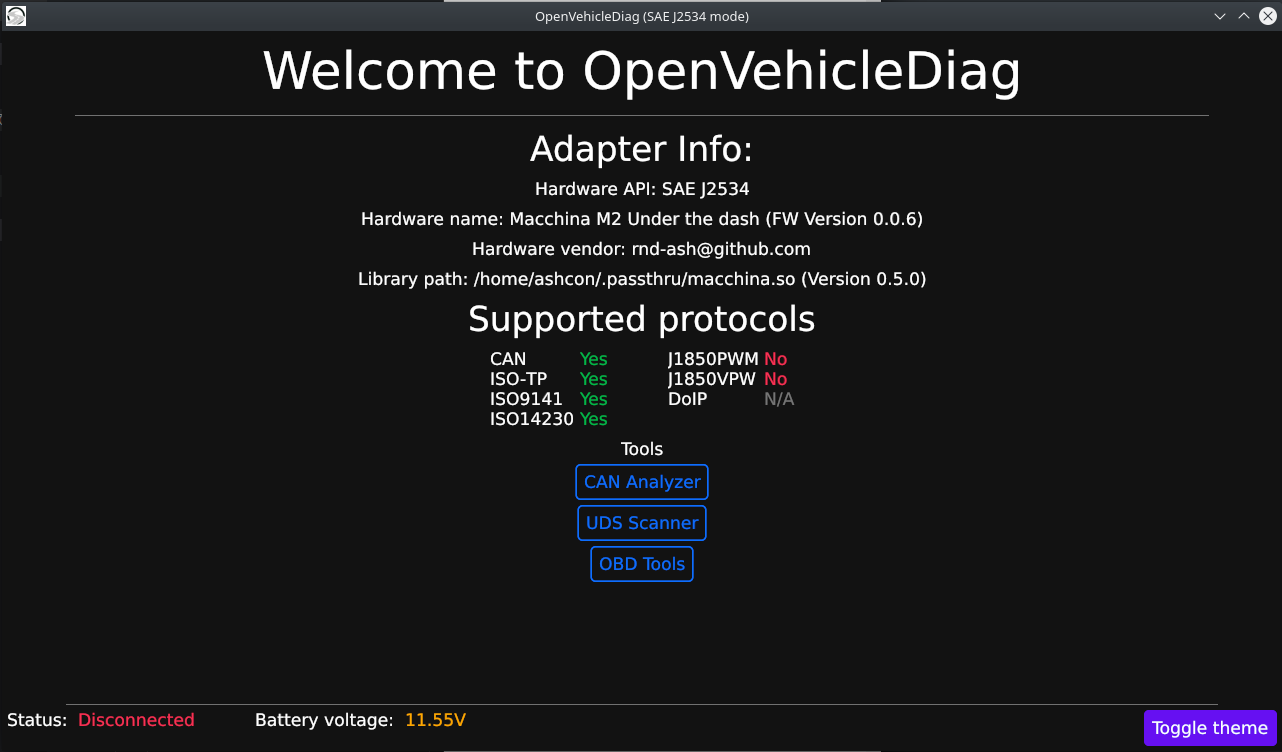
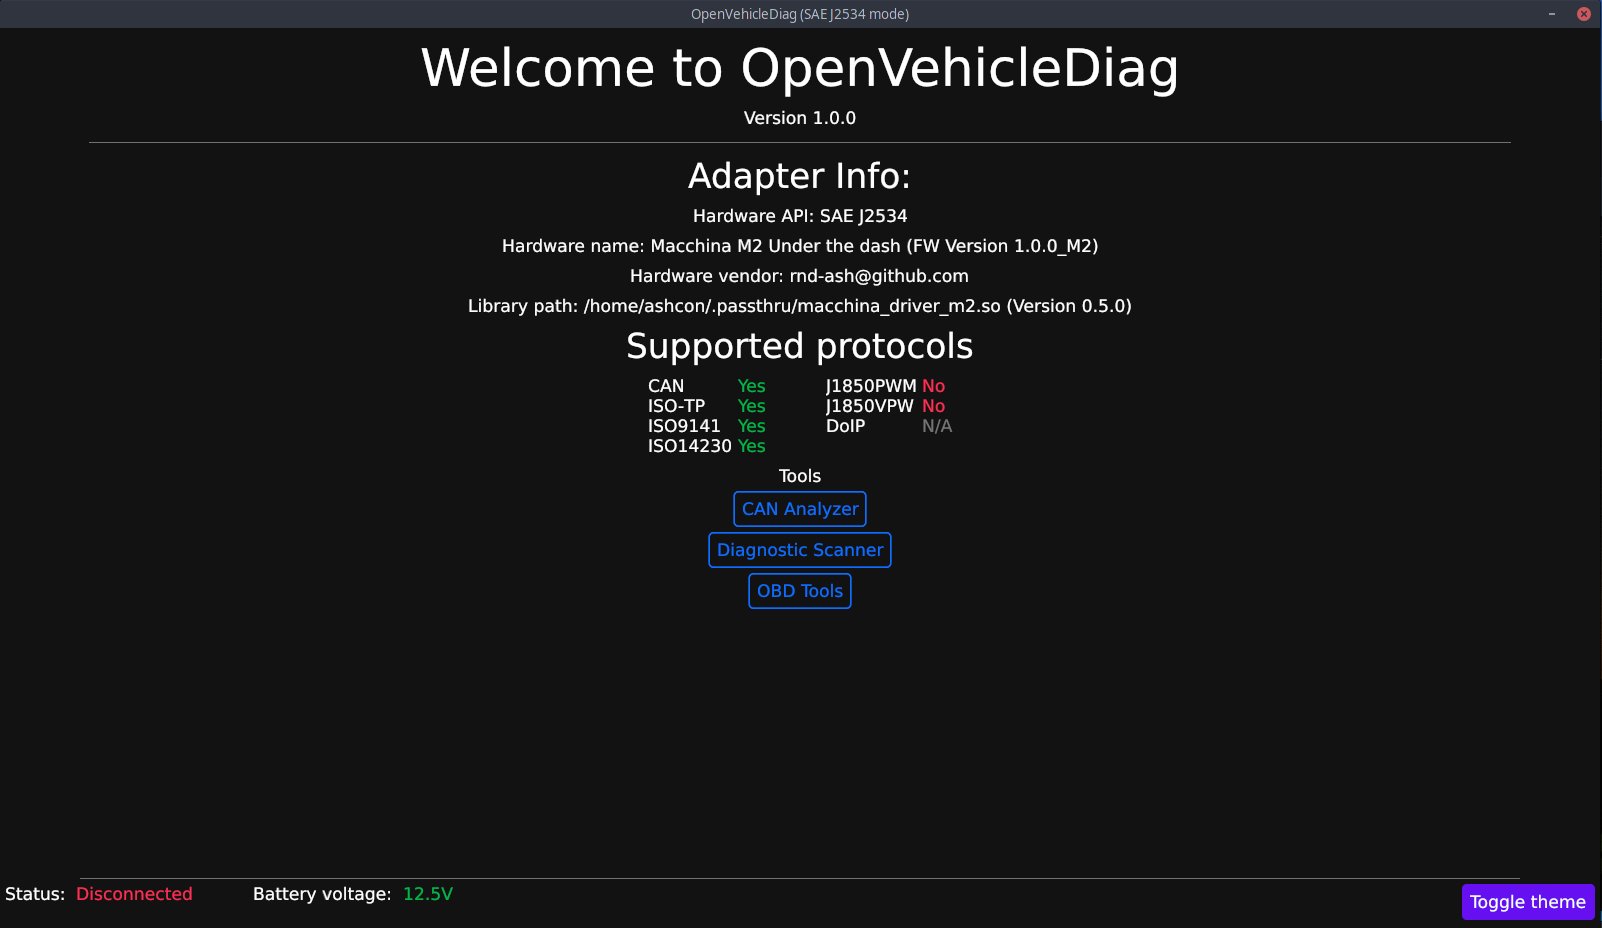
Ready V1.0 for release

Changed region(s): [[0.0, 0.0, 1.0, 0.7646], [0.0, 0.9176, 0.9984, 1.0], [0.9984, 0.9787, 1.0, 1.0]]

diff --git a/README.md b/README.md
@@ -7,7 +7,7 @@ The idea is to make diagnosing and exploring your cars diagnostics functions pos
 This is for my University FYP for my degree at the University of Reading
 
 ### Latest release
-[Version 0.5.0 (10/02/21)](https://github.com/rnd-ash/OpenVehicleDiag/releases/tag/v0.5.0)
+[Version 1.0.0 (21/04/21)](https://github.com/rnd-ash/OpenVehicleDiag/releases/tag/v1.0.0)
 
 ## Youtube video playlist
 Videos showing OpenVehicleDiag in use and its development progress can be found [here](https://youtube.com/playlist?list=PLxrw-4Vt7xtty50LmMoLXN2iKiUknbMng)
@@ -28,25 +28,3 @@ Parses Mercedes SMR Files into JSON (**DOES NOT FUNCTION FULLY**)
 
 ### Common
 Common library for both parser and GUI Application
-
-## Project feature checklists - Current status (90%)
-Features marked with '(**WIP**)' are actively being developed!
-### Reverse engineering framework
-- [x] Define a schema in JSON for others to follow 
-- [x] User guide on how to write a custom parser for an OEM's Database file
-- [x] Reverse engineering note on MB CBF
-### Diagnostic application
-- [x] J2534-2 API
-- [x] Packet tracing support
-- [ ] Support K-Line 
-- [x] Support CAN 
-- [x] Send and receive custom UDS Commands
-- [x] Realtime performance data viewer for certain views
-- [x] DTC View and clearer
-### Macchina J2534 driver
-- [x] Support J2534-2 API Passthru functions
-- [x] packet Logger
-- [ ] ISO9141
-- [ ] ISO14230 (KWP2000)
-- [x] CAN
-- [x] ISO15765 (ISO-TP)
